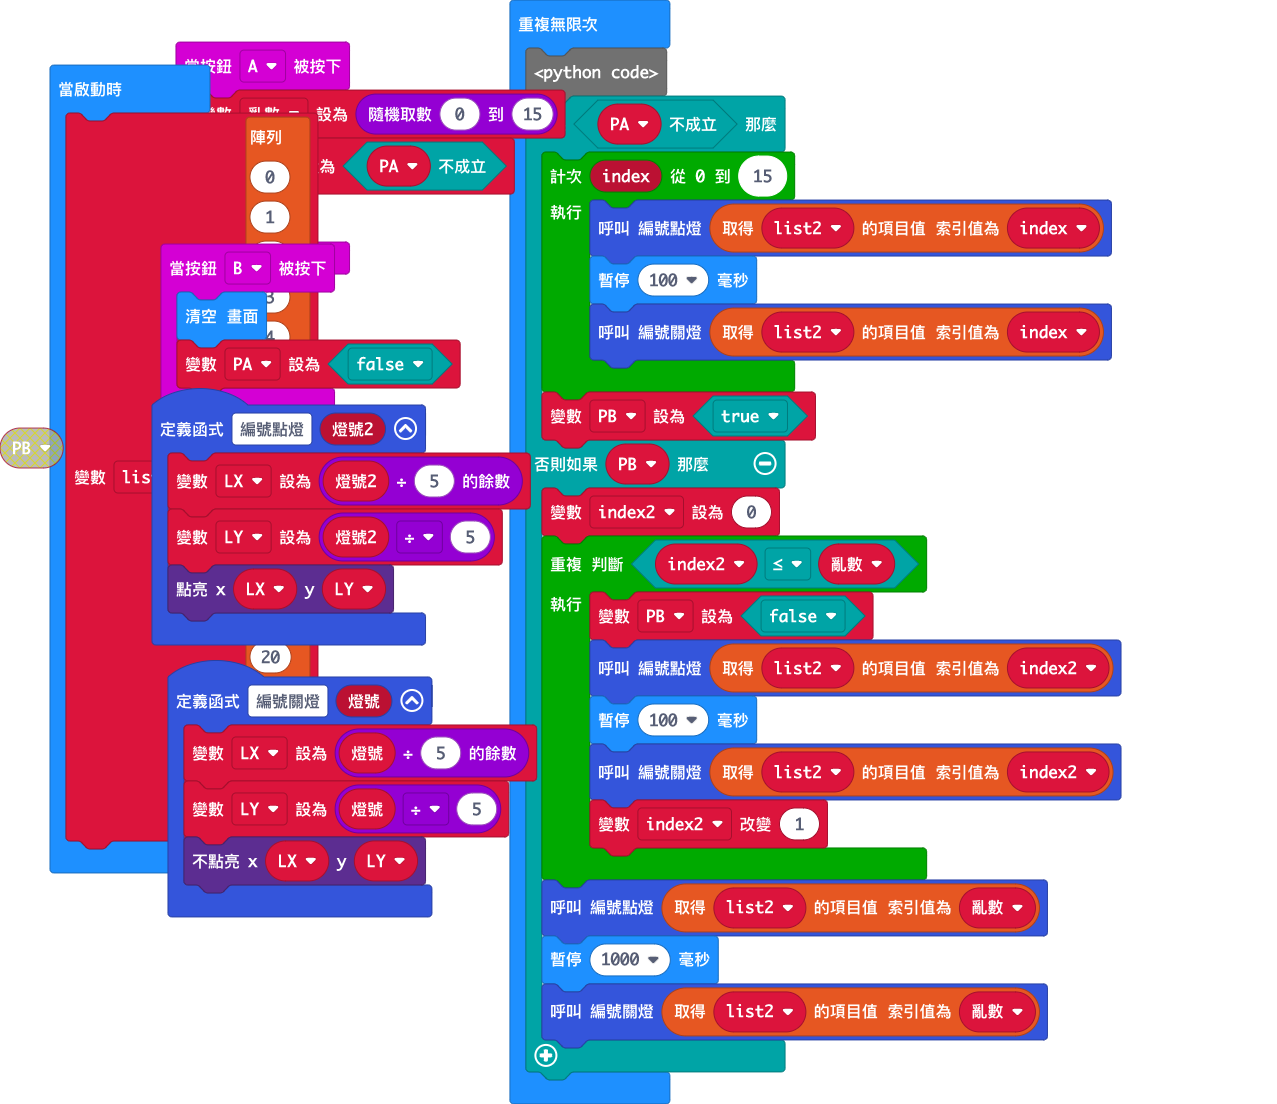
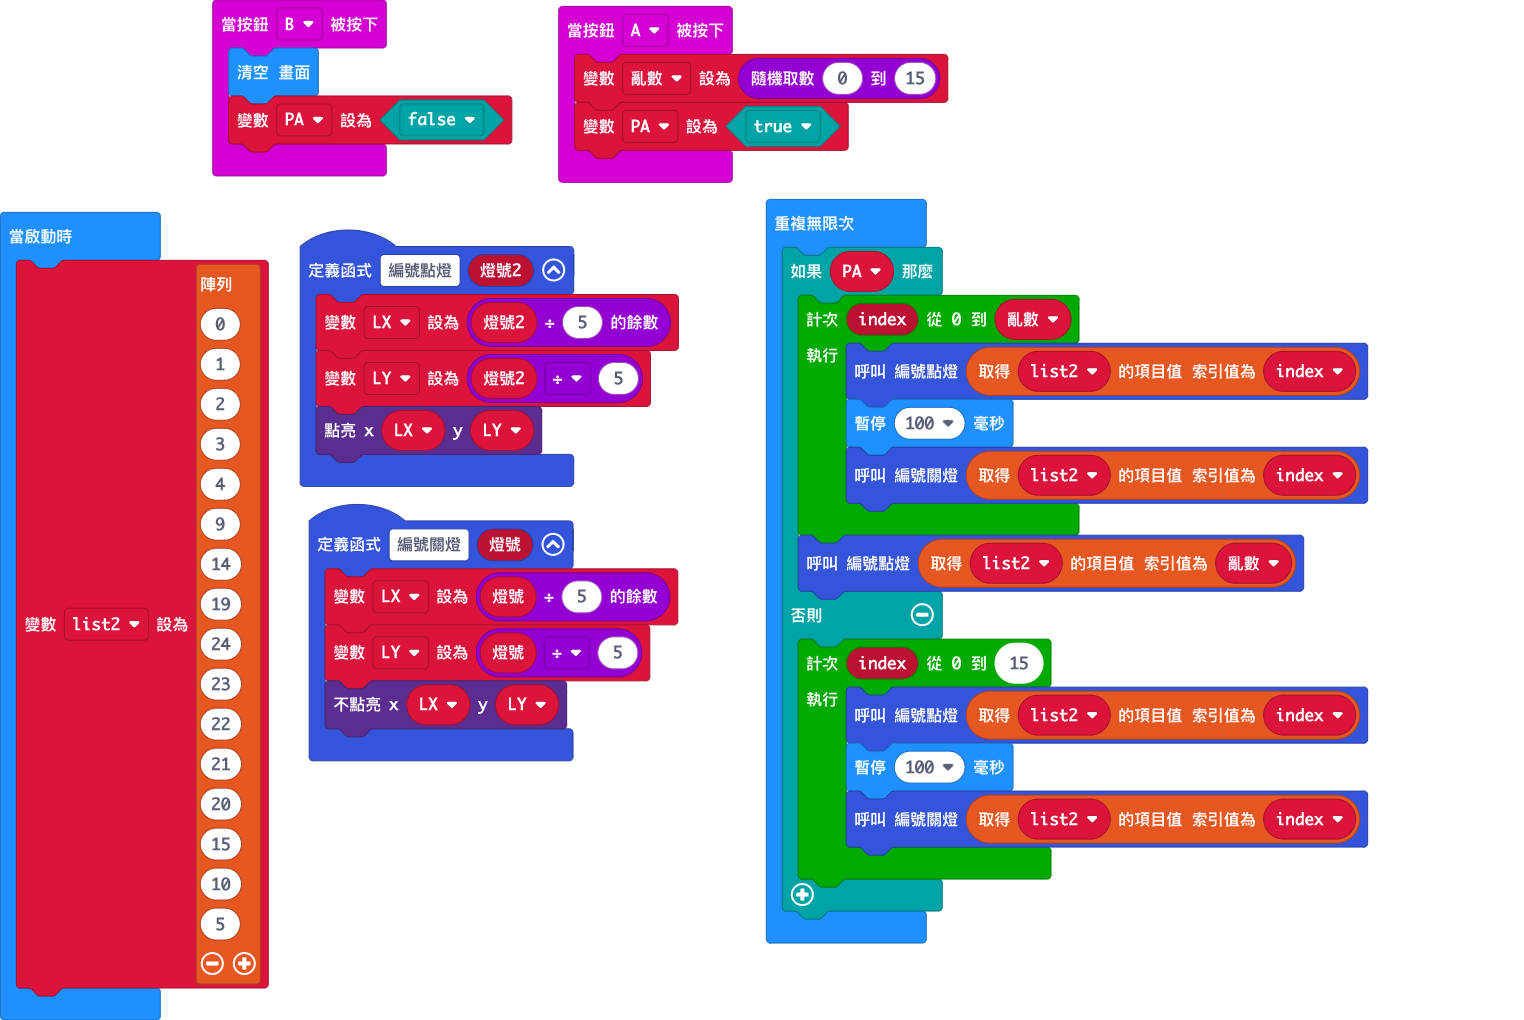
更新 main.blocks, main.ts

diff --git a/main.ts b/main.ts
@@ -5,8 +5,7 @@ function 編號關燈 (燈號: number) {
 }
 input.onButtonPressed(Button.A, function () {
     亂數 = randint(0, 15)
-    PA = !(PA)
-    basic.clearScreen()
+    PA = true
 })
 input.onButtonPressed(Button.B, function () {
     basic.clearScreen()
@@ -17,7 +16,6 @@ function 編號點燈 (燈號2: number) {
     LY = 燈號2 / 5
     led.plot(LX, LY)
 }
-let PB = false
 let PA = false
 let 亂數 = 0
 let LY = 0
@@ -41,25 +39,18 @@ let list2 = [
 5
 ]
 basic.forever(function () {
-    let index2: number;
-if (!(PA)) {
+    if (PA) {
+        for (let index = 0; index <= 亂數; index++) {
+            編號點燈(list2[index])
+            basic.pause(100)
+            編號關燈(list2[index])
+        }
+        編號點燈(list2[亂數])
+    } else {
         for (let index = 0; index <= 15; index++) {
             編號點燈(list2[index])
             basic.pause(100)
             編號關燈(list2[index])
         }
-        PB = true
-    } else if (PB) {
-        index2 = 0
-        while (index2 <= 亂數) {
-            PB = false
-            編號點燈(list2[index2])
-            basic.pause(100)
-            編號關燈(list2[index2])
-            index2 += 1
-        }
-        編號點燈(list2[亂數])
-        basic.pause(1000)
-        編號關燈(list2[亂數])
     }
 })
